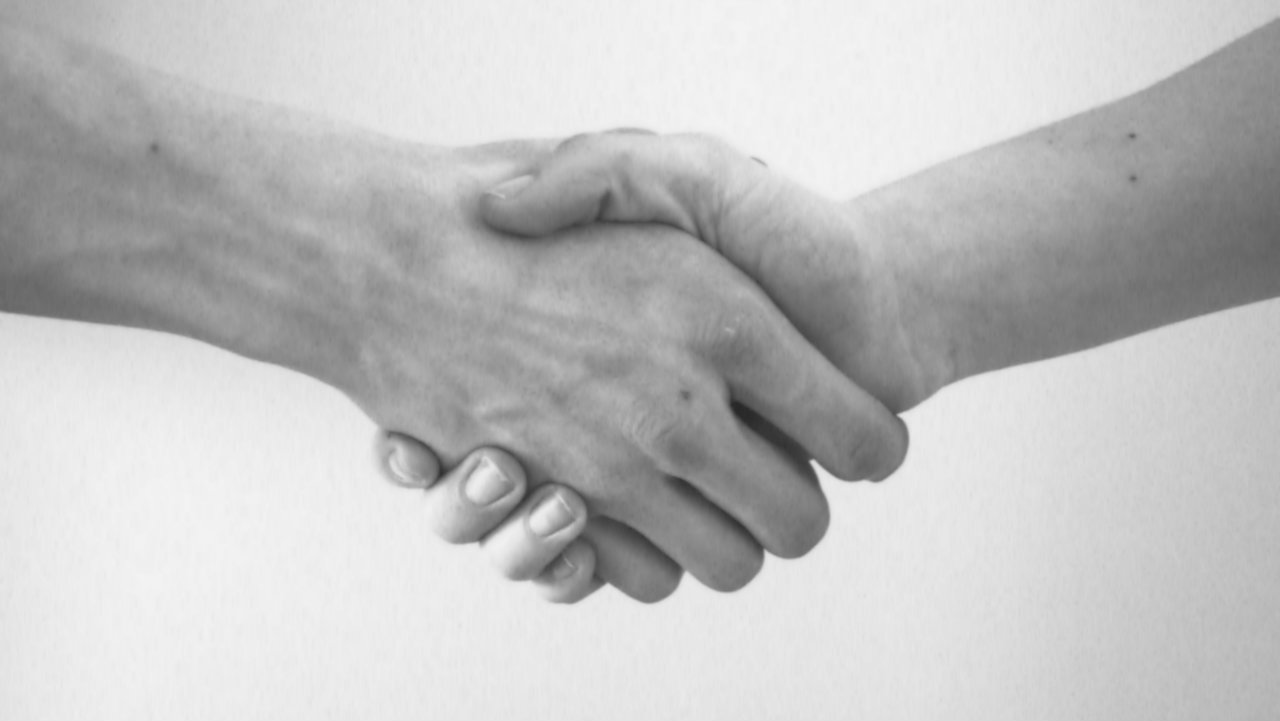
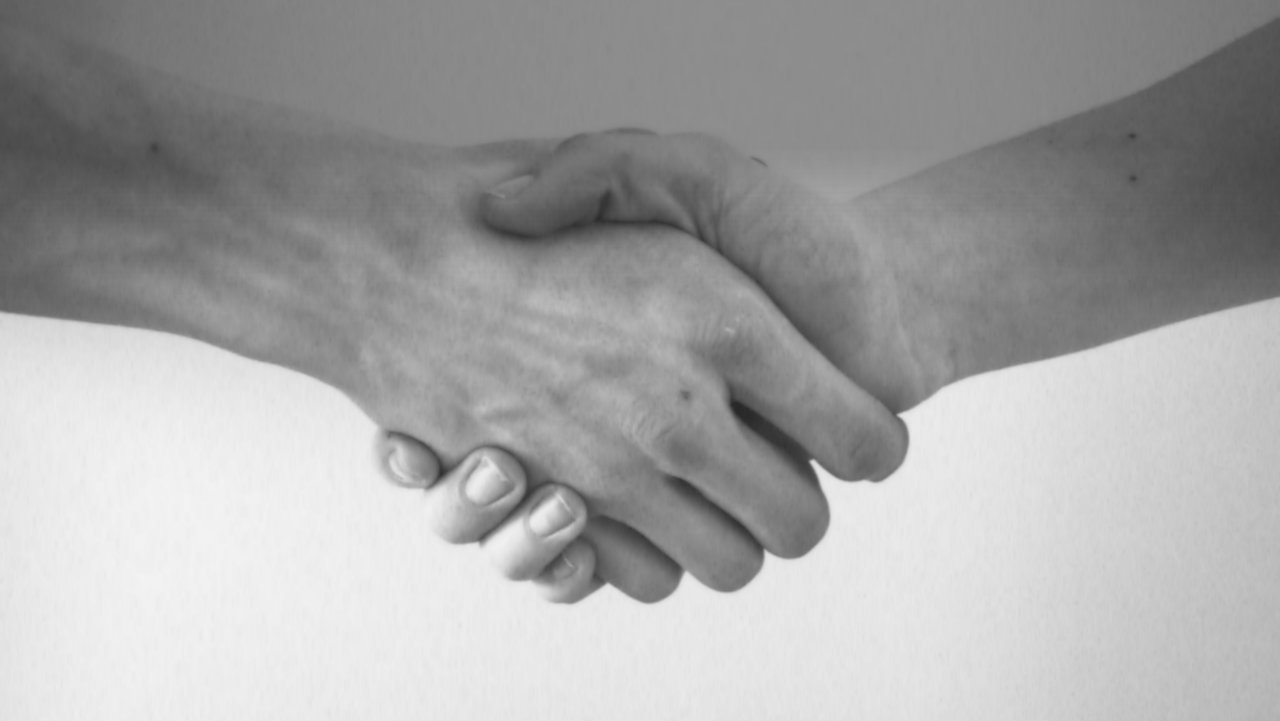
added new picture for partners

diff --git a/src/components/Partners/Partners.jsx b/src/components/Partners/Partners.jsx
@@ -1,10 +1,10 @@
 const React = require('react');
 
 import { Parallax } from 'react-parallax'
-import bgImage from './img/hand2.jpg'
+import bgImage from './img/hand3.jpg'
 import PartnerOne from './img/aksjeforum.png'
 import PartnerTwo from './img/grunderG.png'
-import PartnerThree from './img/seedforum.jpg'
+import PartnerThree from './img/seedforum.png'
 const css = require('./css/Partners.css')
 
 var Partners = React.createClass({
